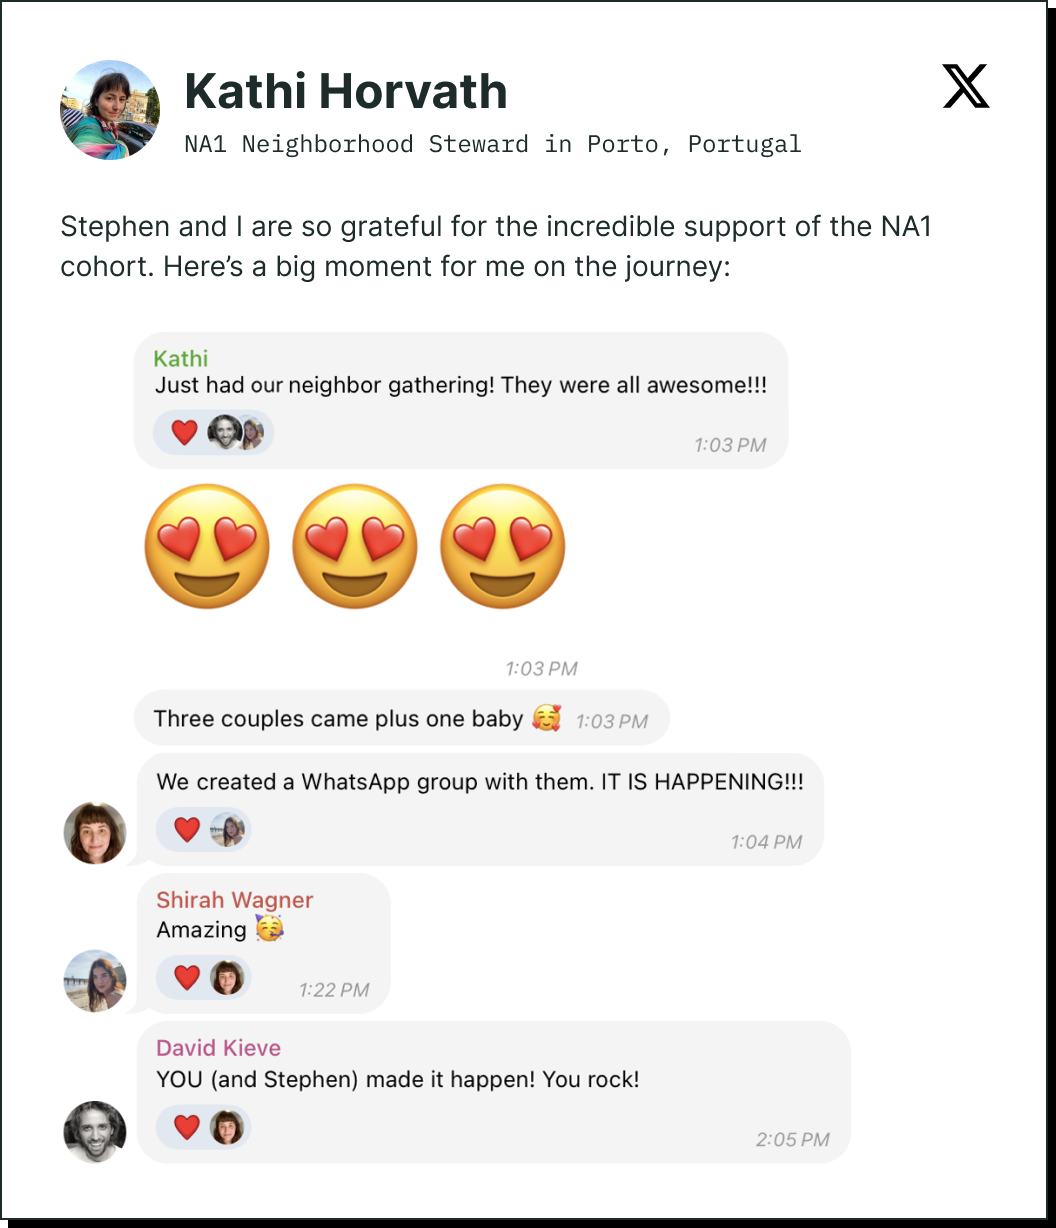
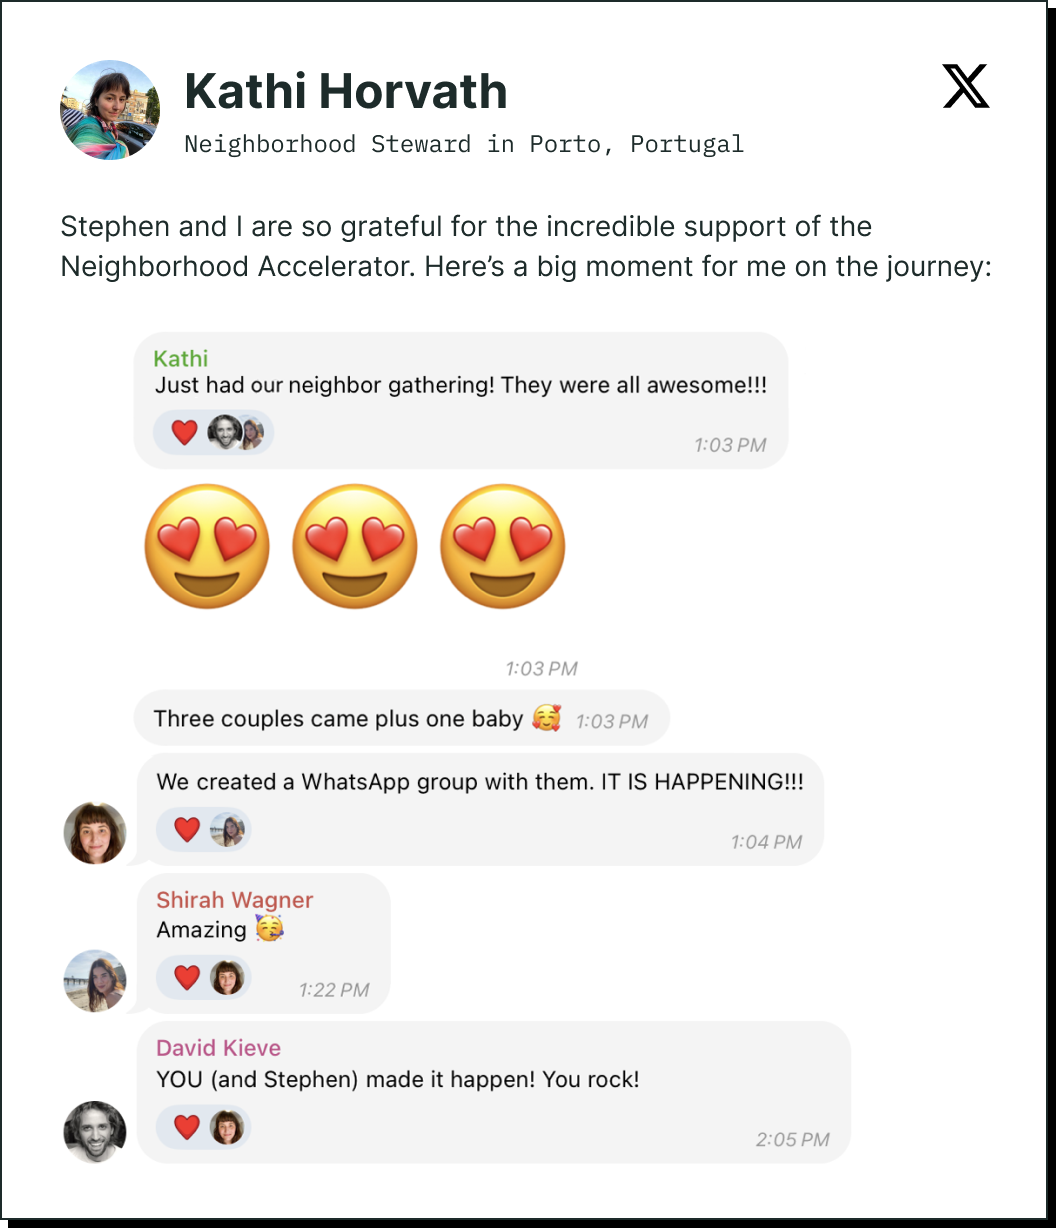
stories update

diff --git a/components/accelerator/NeighborhoodStoriesSection.tsx b/components/accelerator/NeighborhoodStoriesSection.tsx
@@ -10,6 +10,8 @@ import { AutoImage } from '@/components/core/AutoImage'
 import savannah from '@/components/accelerator/SK Slide.png'
 import bethany from '@/components/accelerator/Bethany Slide.png'
 import Kathi from '@/components/accelerator/Kathi Slide.png'
+import jackson from '@/components/accelerator/Jackson Slide.png'
+import shani from '@/components/accelerator/Shani Slide.png'
 
 export function NeighborhoodStoriesSection() {
   const { deviceSize } = useDeviceSize()
@@ -26,7 +28,7 @@ export function NeighborhoodStoriesSection() {
             target={'_blank'}
             rel={'noopener'}
           >
-            NA1 1-Month Update
+            Accelerator 1-Month Update
           </Link>
           .
         </Body1>
@@ -45,7 +47,7 @@ export function NeighborhoodStoriesSection() {
   )
 }
 
-const pics = [Kathi, bethany, savannah]
+const pics = [Kathi, jackson, bethany, savannah, shani]
 
 const Container = styled.div`
   display: flex;
